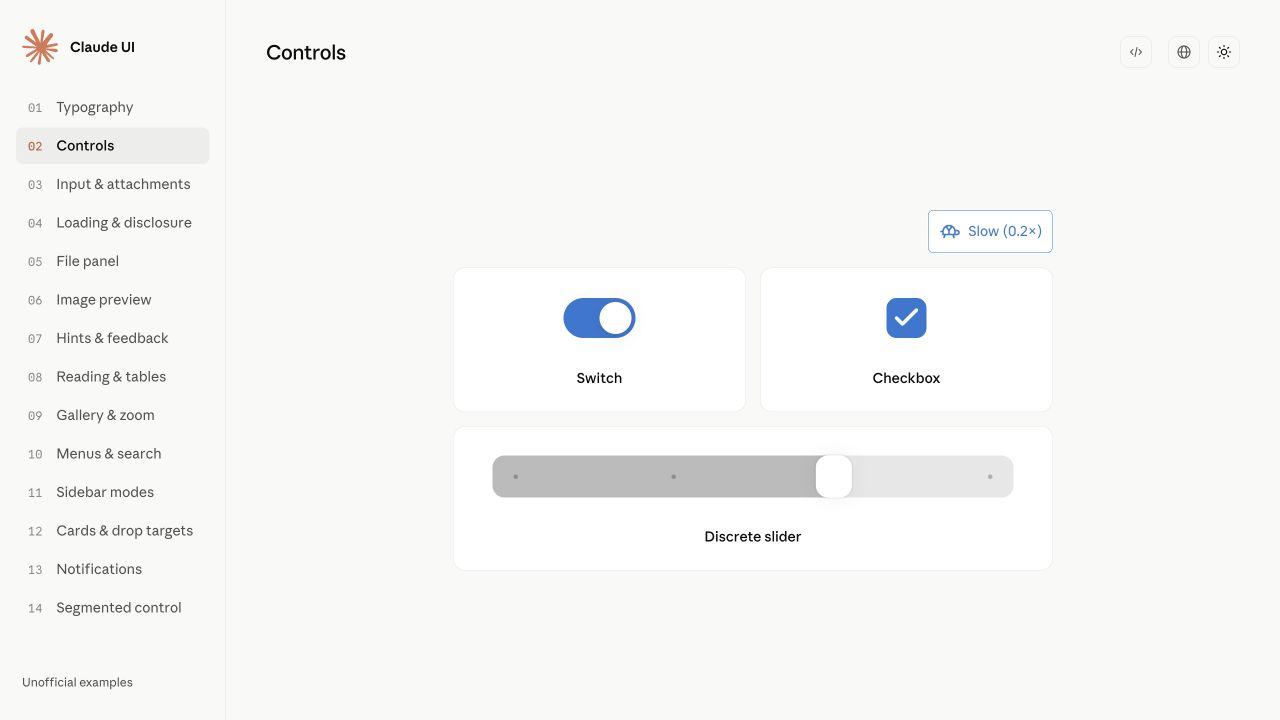
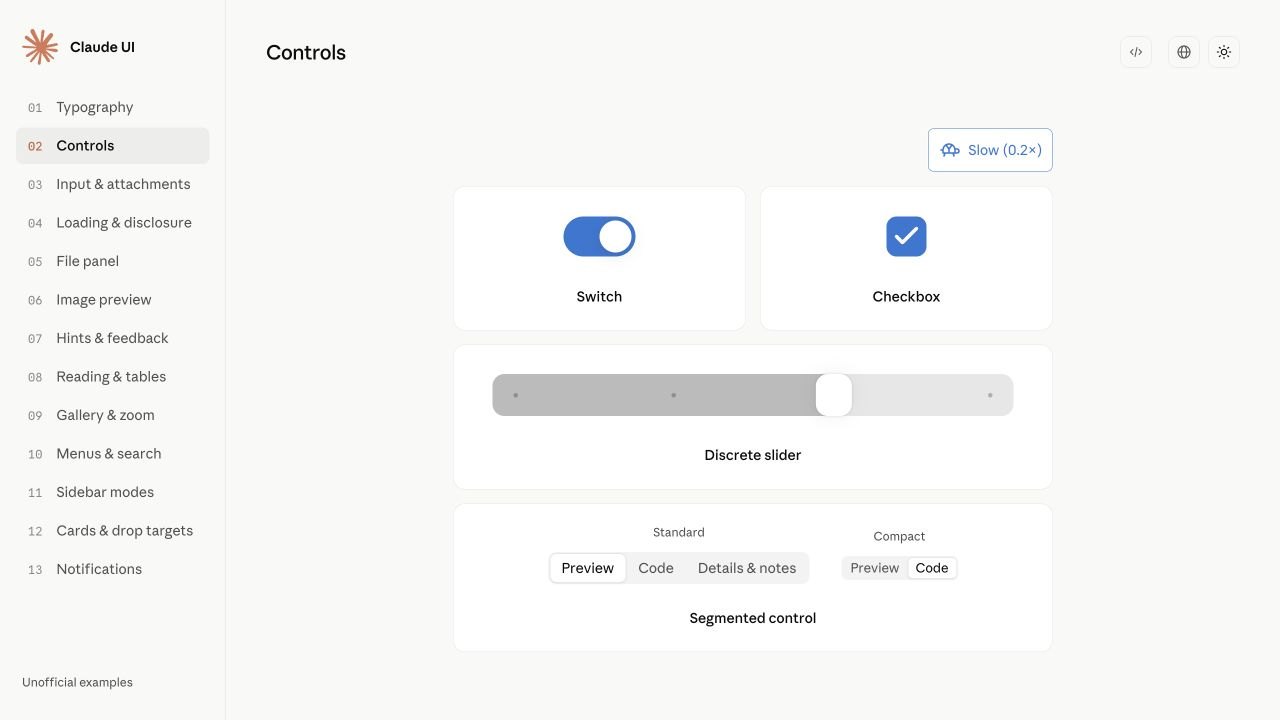
refactor(demo): merge segmented examples into controls

diff --git a/demo/App.tsx b/demo/App.tsx
@@ -12,20 +12,22 @@ import { MicroChapter } from './chapters/MicroChapter';
 import { NotificationsChapter } from './chapters/NotificationsChapter';
 import { FeedbackChapter } from './chapters/FeedbackChapter';
 import { ReadingChapter } from './chapters/ReadingChapter';
-import { SegmentedChapter } from './chapters/SegmentedChapter';
 import { DemoShell } from './components/DemoShell';
 import { messages } from './i18n';
 import type { Locale } from './i18n';
 
 type Theme = 'system' | 'light' | 'dark';
-const chapters = ['type', 'controls', 'composer', 'feedback', 'workspace', 'images', 'micro', 'reading', 'gallery', 'menus', 'modes', 'tasks', 'recovery', 'segmented'] as const;
+const chapters = ['type', 'controls', 'composer', 'feedback', 'workspace', 'images', 'micro', 'reading', 'gallery', 'menus', 'modes', 'tasks', 'recovery'] as const;
 type Chapter = typeof chapters[number];
 function readPreferences(key: 'locale' | 'theme') {
   try { return [localStorage.getItem(`cui-demo-${key}`), localStorage.getItem(key === 'locale' ? 'claude-ui-studies.language' : 'claude-ui-studies.theme')]; }
   catch { return []; }
 }
 function savePreference(key: string, value: string) { try { localStorage.setItem(`cui-demo-${key}`, value); } catch { /* Storage is optional. */ } }
-function currentChapter(): Chapter { return chapters.find(chapter => location.hash === `#${chapter}`) ?? 'type'; }
+function currentChapter(): Chapter {
+  if (location.hash === '#segmented') return 'controls';
+  return chapters.find(chapter => location.hash === `#${chapter}`) ?? 'type';
+}
 function initialLocale(): Locale {
   const preference = [new URLSearchParams(location.search).get('lang'), ...readPreferences('locale')]
     .find((value): value is Locale => value === 'en' || value === 'zh-Hans');
@@ -119,7 +121,6 @@ export function App() {
       const url = new URL(location.href); url.searchParams.set('lang', next); history.replaceState(null, '', url);
     }} onTheme={setTheme}>
           <section className="demo-specimen" hidden={chapter !== 'controls'} aria-label={copy.controls}><ControlsChapter copy={copy} locale={locale} active={chapter === 'controls'} /></section>
-          <section className="demo-specimen" hidden={chapter !== 'segmented'} aria-label={copy.segmented}><SegmentedChapter copy={copy} /></section>
           <section className="demo-specimen" hidden={chapter !== 'type'} aria-label={copy.type}><TypographyChapter locale={locale} active={chapter === 'type'} /></section>
           <section className="demo-specimen" hidden={chapter !== 'reading'} aria-label={copy.reading}><ReadingChapter locale={locale} active={chapter === 'reading'} /></section>
           <section className="demo-specimen" hidden={chapter !== 'feedback'} aria-label={copy.feedback}><FeedbackChapter locale={locale} active={chapter === 'feedback'} /></section>

diff --git a/demo/chapters/ControlsChapter.tsx b/demo/chapters/ControlsChapter.tsx
@@ -1,6 +1,6 @@
 import { useState } from 'react';
 import type { CSSProperties } from 'react';
-import { Checkbox, DiscreteSlider, Switch } from '../../src';
+import { Checkbox, DiscreteSlider, SegmentedControl, Switch } from '../../src';
 import type { Copy, Locale } from '../i18n';
 import { translate } from '../translations';
 import { Specimen } from '../components/Specimen';
@@ -10,6 +10,8 @@ export function ControlsChapter({ copy, locale, active }: { copy: Copy; locale: 
   const [checked, setChecked] = useState(true);
   const [enabled, setEnabled] = useState(true);
   const [effort, setEffort] = useState('2');
+  const [view, setView] = useState('preview');
+  const views = [{ value: 'preview', label: copy.preview }, { value: 'code', label: copy.code }, { value: 'details', label: copy.details }];
   const options = ['0', '1', '2', '3'].map((value, index) => ({
     value, label: translate(locale, 'Level {0} of {1}', index + 1, 4), recommended: index === 2,
   }));
@@ -27,6 +29,18 @@ export function ControlsChapter({ copy, locale, active }: { copy: Copy; locale: 
         </Specimen>
         <Specimen title={copy.slider} description={copy.sliderDescription} parameters={locale === 'en' ? "120ms; 1.12× press scale; 4 stops" : "120ms; 1.12× 按压缩放; 4 档"} wide>
           <div className="w-full max-w-[360px] [zoom:1.5]"><DiscreteSlider aria-label={copy.effort} options={options} value={effort} onValueChange={setEffort} /></div>
+        </Specimen>
+        <Specimen title={copy.segmented} description={copy.segmentHint} parameters={`${copy.standardHint}; ${copy.compactHint}`} wide>
+          <div className="demo-segmented-examples">
+            <div className="flex min-w-0 max-w-full flex-col items-center gap-2">
+              <span className="text-xs text-cui-secondary">{copy.standard}</span>
+              <div className="max-w-full overflow-x-auto p-1"><SegmentedControl aria-label={copy.segmentLabel} options={views} value={view} onValueChange={setView} /></div>
+            </div>
+            <div className="flex min-w-0 max-w-full flex-col items-center gap-2">
+              <span className="text-xs text-cui-secondary">{copy.compact}</span>
+              <div className="max-w-full overflow-x-auto p-1"><SegmentedControl aria-label={copy.compactLabel} options={views.slice(0, 2)} defaultValue="code" size="compact" /></div>
+            </div>
+          </div>
         </Specimen>
     </div>
   );

diff --git a/demo/i18n.ts b/demo/i18n.ts
@@ -18,7 +18,7 @@ const english = {
   sliderDescription: 'The fill follows the thumb, which grows while pressed.',
   notes: 'Implementation notes', showNotes: 'Show implementation notes', hideNotes: 'Hide implementation notes', playback: 'Playback speed', normalSpeed: 'Normal', slowSpeed: 'Slow (0.2×)', standard: 'Standard', compact: 'Compact',
   preview: 'Preview', code: 'Code', details: 'Details & notes',
-  selection: 'Selected view', segmentLabel: 'View format', compactLabel: 'Compact view format',
+  segmentLabel: 'View format', compactLabel: 'Compact view format',
   segmentHint: 'Use the arrow keys, Home and End. Try switching quickly in both directions.',
   standardHint: '32px track; measured widths; 200ms', compactHint: '24px track; 13px labels; independent state',
   light: 'Light', dark: 'Dark', system: 'System', theme: 'Theme', language: 'Language',
@@ -43,7 +43,7 @@ const chinese: Copy = {
   sliderDescription: '填色跟随滑块移动，按住时轻微放大。',
   notes: '实现说明', showNotes: '显示实现说明', hideNotes: '隐藏实现说明', playback: '播放速度', normalSpeed: '正常', slowSpeed: '慢速（0.2×）', standard: '标准尺寸', compact: '紧凑尺寸',
   preview: '预览', code: '代码', details: '详情与备注',
-  selection: '当前视图', segmentLabel: '视图格式', compactLabel: '紧凑视图格式',
+  segmentLabel: '视图格式', compactLabel: '紧凑视图格式',
   segmentHint: '支持方向键、Home 和 End。试试连续快速切换。',
   standardHint: '32px 轨道; 实测宽度; 200ms', compactHint: '24px 轨道; 13px 文字; 独立状态',
   light: '浅色', dark: '深色', system: '跟随系统', theme: '主题', language: '语言',

diff --git a/demo/styles/shell.css b/demo/styles/shell.css
@@ -93,6 +93,7 @@
 
 .demo-control-row > div { display:flex; align-items:center; line-height:1; }
 .demo-wide .demo-control-row > div { width:min(360px,calc(100% - 20px)); max-width:none; }
+.demo-wide .demo-control-row > .demo-segmented-examples { width:100%; max-width:100%; flex-wrap:wrap; gap:24px; justify-content:center; }
 
 .demo-stage[data-chapter=recovery] .demo-specimen { width:100%; margin:0; }
 

diff --git a/tests/README.md b/tests/README.md
@@ -22,11 +22,11 @@ The original tests loaded page-global scripts or queried the retired showcase DO
 
 [Migration review checks](migration-review-checks.cjs) verify source-only button typography and colors in both themes, Accordion triggerClassName font overrides (combined and individual properties) with inherited defaults and retained-DOM Activity reconnection, GroupedSearch initial autofocus versus retained-DOM reconnect and true remount, and Gallery handles invoked from layout/passive effects with native, unavailable and throwing View Transition APIs. Gallery checks also verify one opening callback after the initial effect probe and cancellation before connection on pagehide, deactivation, Activity hiding and true unmount. These run in the visual, menus and gallery suites with StrictMode off/on. Stream geometry checks load a fresh document for each width and capture paragraph presence and geometry atomically. Demo controls and return-button checks preserve the original bilingual copy and accessible names.
 
-React suites also exercise independently imported components without the demo stylesheet or globals, lifecycle cleanup and multiple instances. The production suite serves `dist/` with a plain HTTP file server, tests root/repository-subpath entries and both HTML entry points, traverses all 14 chapters, verifies image spring CSS and local asset delivery, and checks saved preferences, denied storage and history. It also verifies the restored language menu and narrow chapter picker, focus return, and the original slider dimensions. Demo framing and explanatory copy are intentionally simplified; source-component geometry and motion remain covered separately.
+React suites also exercise independently imported components without the demo stylesheet or globals, lifecycle cleanup and multiple instances. The production suite serves `dist/` with a plain HTTP file server, tests root/repository-subpath entries and both HTML entry points, traverses all 13 chapters, verifies image spring CSS and local asset delivery, and checks saved preferences, denied storage and history. It also verifies the restored language menu and narrow chapter picker, focus return, and the original slider dimensions. Demo framing and explanatory copy are intentionally simplified; source-component geometry and motion remain covered separately.
 
-[Demo presentation checks](demo-presentation.browser.cjs) traverse all 14 chapters in English and Chinese, light and dark themes, desktop and 320px layouts, with StrictMode off/on. They cover optional notes without remounting the controls, normal/slow playback selection, legible demo text, absence of middle-dot separators, narrow-screen navigation, horizontal overflow and persisted/system theme selection.
+[Demo presentation checks](demo-presentation.browser.cjs) traverse all 13 chapters in English and Chinese, light and dark themes, desktop and 320px layouts, with StrictMode off/on. They cover optional notes without remounting the controls, normal/slow playback selection, legible demo text, absence of middle-dot separators, narrow-screen navigation, horizontal overflow and persisted/system theme selection.
 
-[Demo settings checks](demo-settings.browser.cjs) verify the original theme icon and turtle buttons, default 0.2× and normal-speed transition durations, keyboard/touch toggling, chapter switching, retained-DOM Activity reconnection, inactive controls and focus preservation. They run with StrictMode off/on and check bilingual light/dark settings at 320/390/1280px.
+[Demo settings checks](demo-settings.browser.cjs) verify the original theme icon and turtle buttons, default 0.2× and normal-speed transition durations, keyboard/touch toggling, chapter switching, retained-DOM Activity reconnection, inactive controls and focus preservation. They also cover the merged standard/compact segmented examples, independent selection and indicator alignment after Activity reconnection, legacy `#segmented` entry/hash/history navigation and state retention through locale/notes changes. They run with StrictMode off/on and check bilingual light/dark settings at 320/390/1280px.
 
 `react-ssr.browser.cjs` renders the public source with Vite SSR, then hydrates it in Chrome under StrictMode. It checks matching initial markup without filesystem URLs, real sprite decoding, pause/resume, Replay, unmount cleanup and decode-failure fallback.
 

diff --git a/README.md b/README.md
@@ -12,13 +12,13 @@
 <p align="center">
   <picture>
     <source media="(prefers-color-scheme: dark)" srcset="docs/assets/demo-preview-dark.jpg">
-    <img src="docs/assets/demo-preview.jpg" width="960" alt="React demo: switch, checkbox and discrete slider, with navigation to all 14 chapters">
+    <img src="docs/assets/demo-preview.jpg" width="960" alt="React demo: switch, checkbox, discrete slider and segmented controls, with navigation to all 13 chapters">
   </picture>
 </p>
 
 ## React components
 
-The source and demo use **TSX + React 19 + Tailwind CSS 4**. All 14 demo chapters import the same public components from [`src/index.ts`](src/index.ts); sample data, translations and replay controls stay in `demo/`.
+The source and demo use **TSX + React 19 + Tailwind CSS 4**. All 13 demo chapters import the same public components from [`src/index.ts`](src/index.ts); sample data, translations and replay controls stay in `demo/`.
 
 Copy the complete `src/` directory into a React + TypeScript project with Tailwind CSS 4 configured, preserving its internal paths and assets. Import the component stylesheet once:
 
@@ -59,9 +59,9 @@ The skill covers UI, frontend interactions, typography and motion. See [scope an
 
 ## Demo
 
-Explore 14 interactive chapters: typography, controls, input and attachments, loading and disclosure, file panels, image previews, hints, reading and tables, galleries, menus and search, sidebar modes, cards and drop targets, notifications, and segmented controls. Supports English, Simplified Chinese and light/dark themes.
+Explore 13 interactive chapters: typography, controls, input and attachments, loading and disclosure, file panels, image previews, hints, reading and tables, galleries, menus and search, sidebar modes, cards and drop targets, and notifications. Segmented controls are included under Controls. Supports English, Simplified Chinese and light/dark themes.
 
-Implementation notes are optional, and controls play at their original speed by default. Theme selection includes Light, Dark and System.
+Implementation notes are optional. The turtle button defaults to 0.2× playback for the switch, checkbox and slider; click it to restore their original speed. Theme selection includes Light, Dark and System.
 
 With Node.js 22.12+ (or 20.19+ on the 20.x line), run from the repository root:
 

diff --git a/README.zh-CN.md b/README.zh-CN.md
@@ -12,13 +12,13 @@
 <p align="center">
   <picture>
     <source media="(prefers-color-scheme: dark)" srcset="docs/assets/demo-preview-zh-dark.jpg">
-    <img src="docs/assets/demo-preview-zh.jpg" width="960" alt="React 演示：开关、复选框和分档滑块，以及全部 14 个章节的导航">
+    <img src="docs/assets/demo-preview-zh.jpg" width="960" alt="React 演示：开关、复选框、分档滑块和分段控件，以及全部 13 个章节的导航">
   </picture>
 </p>
 
 ## React 组件
 
-源码和 demo 均采用 **TSX + React 19 + Tailwind CSS 4**。全部 14 个 demo 章节从 [`src/index.ts`](src/index.ts) 导入同一套公开组件；示例数据、翻译和重播控制留在 `demo/` 中。
+源码和 demo 均采用 **TSX + React 19 + Tailwind CSS 4**。全部 13 个 demo 章节从 [`src/index.ts`](src/index.ts) 导入同一套公开组件；示例数据、翻译和重播控制留在 `demo/` 中。
 
 将完整的 `src/` 目录复制到已配置 Tailwind CSS 4 的 React + TypeScript 项目，保留内部路径和资源。在应用中导入一次组件样式：
 
@@ -59,9 +59,9 @@ Skill 覆盖 UI、前端交互、排版与动效，详见[范围与覆盖](docs/
 
 ## 演示
 
-包含 14 个交互章节：文字与排版、基础控件、输入框与附件、加载与折叠、文件面板、图片预览、提示与反馈、阅读与表格、缩放与图库、菜单与搜索、侧栏模式、卡片与拖放、通知和分段控件。支持简体中文、English 和深浅主题。
+包含 13 个交互章节：文字与排版、基础控件、输入框与附件、加载与折叠、文件面板、图片预览、提示与反馈、阅读与表格、缩放与图库、菜单与搜索、侧栏模式、卡片与拖放、通知。分段控件合并展示在基础控件中。支持简体中文、English 和深浅主题。
 
-实现说明默认收起，可按需展开。控件默认以原速播放，主题可选择浅色、深色或跟随系统。
+实现说明默认收起，可按需展开。乌龟按钮默认以 0.2× 播放开关、复选框和滑块的动效，点击可恢复原速。主题可选择浅色、深色或跟随系统。
 
 使用 Node.js 22.12+（或 20.x 系列的 20.19+），在仓库根目录执行：
 

diff --git a/references/components.md b/references/components.md
@@ -1,12 +1,12 @@
 # Component guides
 
-Choose a scenario, then read its linked TSX source and component styles. All 14 demo chapters import the public component entry. See [integration](../demo/README.md) and [visual foundations](visual.md).
+Choose a scenario, then read its linked TSX source and component styles. All 13 demo chapters import the public component entry. See [integration](../demo/README.md) and [visual foundations](visual.md).
 
 | Scenario | Guide | Demo |
 | --- | --- | --- |
 | Standalone grapheme/body reveal, user bubble, working dots and scroll following | [Text reveal and local scrolling](components/type.md) | [Demo](../demo/index.html#type) |
 | Binary choices and an ordered discrete scale | [Switch, checkbox and slider](components/controls.md) | [Demo](../demo/index.html#controls) |
-| Mutually exclusive views with unequal-width slider motion | [Segmented control](components/segmented.md) | [Demo](../demo/index.html#segmented) |
+| Mutually exclusive views with unequal-width slider motion | [Segmented control](components/segmented.md) | [Demo](../demo/index.html#controls) |
 | Composer surface, hover/focus transitions, `@` Artifact references, a folding project row and mock attachment add/remove/reflow motion | [Input and attachments](components/composer.md) | [Demo](../demo/index.html#composer) |
 | Waiting, delayed placeholders and optional detail | [Waiting and accordion](components/feedback.md) | [Demo](../demo/index.html#feedback) |
 | Files, view formats and a resizable preview | [File panel](components/workspace.md) | [Demo](../demo/index.html#workspace) |

diff --git a/demo/README.md b/demo/README.md
@@ -1,6 +1,6 @@
 # React demo
 
-The demo imports the public TSX components from `src/index.ts`. Its 14 chapters cover controls, segmented selection, typography, reading, feedback, hints, notifications, composer, menus, workspace, sidebar, image previews, galleries and tasks. Sample data, translations and replay controls belong to the demo. See [the migration record](../docs/react-migration.md).
+The demo imports the public TSX components from `src/index.ts`. Its 13 chapters cover controls (including segmented selection), typography, reading, feedback, hints, notifications, composer, menus, workspace, sidebar, image previews, galleries and tasks. Sample data, translations and replay controls belong to the demo. See [the migration record](../docs/react-migration.md).
 
 ## Run
 
@@ -11,7 +11,7 @@ npm ci
 npm run dev
 ```
 
-Open the printed Vite address. `/demo/` is an additional entry to the same application. `?lang=en` and `?lang=zh-Hans` select the language; `#controls`, `#segmented`, `#type` and `#reading` select chapters. Theme and language preferences persist locally. Changing chapters, language or theme preserves component state.
+Open the printed Vite address. `/demo/` is an additional entry to the same application. `?lang=en` and `?lang=zh-Hans` select the language; `#controls`, `#type` and `#reading` select chapters. The legacy `#segmented` address opens Controls. Theme and language preferences persist locally. Changing chapters, language or theme preserves component state.
 
 The [mobile preview](../docs/assets/demo-preview-mobile.jpg) shows the 320px layout.
 

diff --git a/docs/react-visual-parity.md b/docs/react-visual-parity.md
@@ -6,7 +6,7 @@ Date: 2026-10-20. Baseline: the local pre-migration showcase. Compared implement
 
 The initial migration retained component behavior but redesigned much of the demo presentation. That changed the visual result: navigation and theme controls, chapter widths, canvas centering, card rings/shadows, padding, type stages, button sizes and responsive breakpoints. Source-only tests did not establish parity with the original demo.
 
-This follow-up restores that presentation in React. The original default Typography page, 13 chapter positions and labels are retained; the additional standalone segmented-control chapter follows them as chapter 14. Reusable components remain in `src/`; demo framing stays under `demo/`.
+This follow-up restores that presentation in React. The original default Typography page, 13 chapter positions and labels are retained; the additional segmented-control examples now live under Controls, with `#segmented` retained as a compatibility alias. Reusable components remain in `src/`; demo framing stays under `demo/`.
 
 Component corrections include the original 30px icon buttons, medium task/file-row weights, Serif file content, theme-aware clay and popover colors, keyboard-shortcut keycaps, accordion padding/expo easing, table heading spacing, code/table surfaces and notification action padding. No backend behavior was added.
 

diff --git a/SKILL.md b/SKILL.md
@@ -5,7 +5,7 @@ description: Build or refine Claude-inspired UI, frontend interactions, and moti
 
 # Claude UI Skills
 
-Adapt Claude Desktop–style UI, typography and motion into an existing frontend. Reusable TSX components in `src/` are the implementation reference; all 14 chapters in `demo/` import them. Scenario guides link the component source and styles. See [integration](demo/README.md).
+Adapt Claude Desktop–style UI, typography and motion into an existing frontend. Reusable TSX components in `src/` are the implementation reference; all 13 chapters in `demo/` import them. Scenario guides link the component source and styles. See [integration](demo/README.md).
 
 ## Workflow
 
@@ -54,4 +54,4 @@ Sprite marks (status marks, working dots) step through frames with `steps(n, jum
 
 ## Demo
 
-Run `npm ci` and `npm run dev` from the skill root; see [demo instructions](demo/README.md#run). For static preview, run `npm run build` and serve `dist/`. All 14 chapters run locally without sending data or executing tools.
+Run `npm ci` and `npm run dev` from the skill root; see [demo instructions](demo/README.md#run). For static preview, run `npm run build` and serve `dist/`. All 13 chapters run locally without sending data or executing tools.

diff --git a/docs/react-migration.md b/docs/react-migration.md
@@ -148,7 +148,7 @@ All six delivery stages are complete. Source consumption requires React and Tail
 
 ## Visual parity follow-up
 
-The initial completion established the React delivery and interactions, but did not establish visual parity of the demo shell. The subsequent [computer-use comparison](react-visual-parity.md) restores the original framing and fixes measured component differences. It includes all 13 original chapters in both themes, narrow layouts, English code/table content and overlay states. The additional standalone segmented-control chapter remains chapter 14.
+The initial completion established the React delivery and interactions, but did not establish visual parity of the demo shell. The subsequent [computer-use comparison](react-visual-parity.md) restores the original framing and fixes measured component differences. It includes all 13 original chapters in both themes, narrow layouts, English code/table content and overlay states. The standalone segmented-control chapter was subsequently merged into Controls; the current demo has 13 chapters and retains `#segmented` as a Controls alias.
 
 ## Skill and behavior consistency follow-up
 
